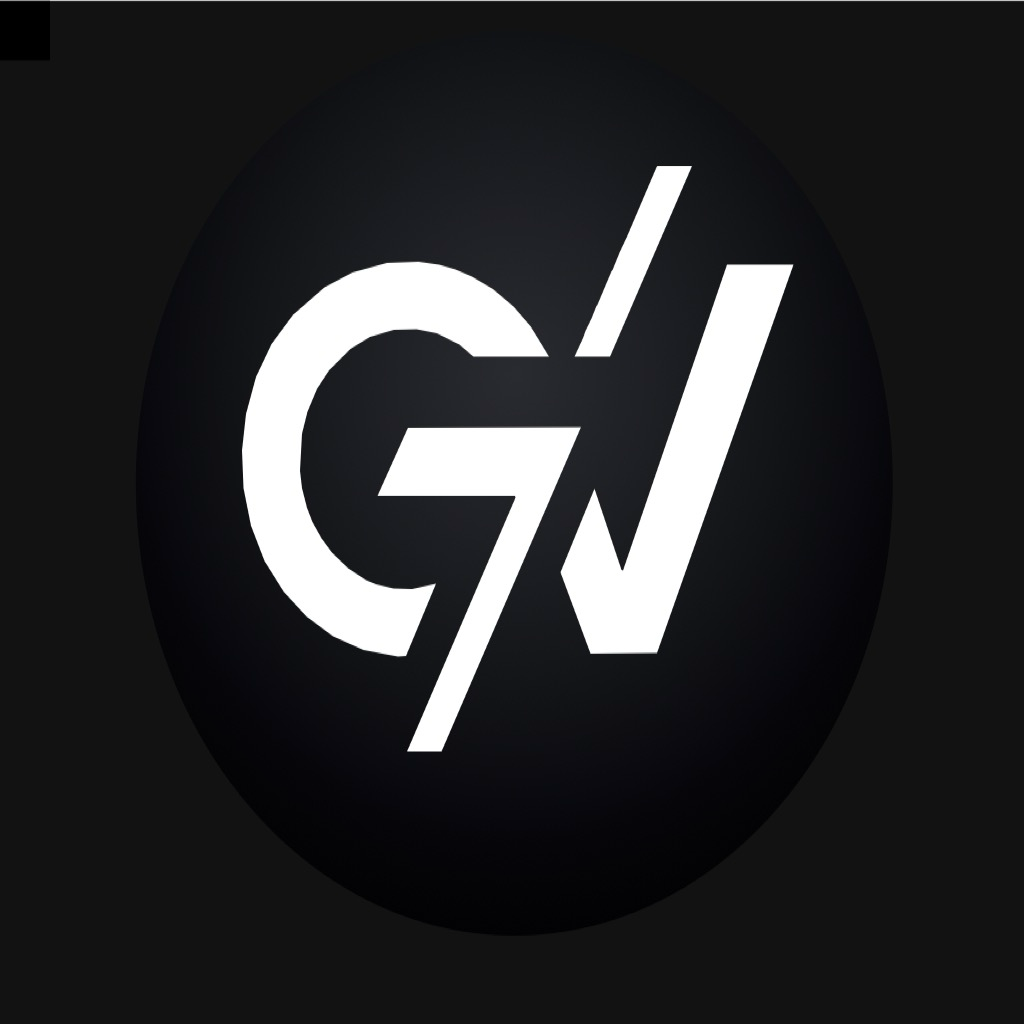
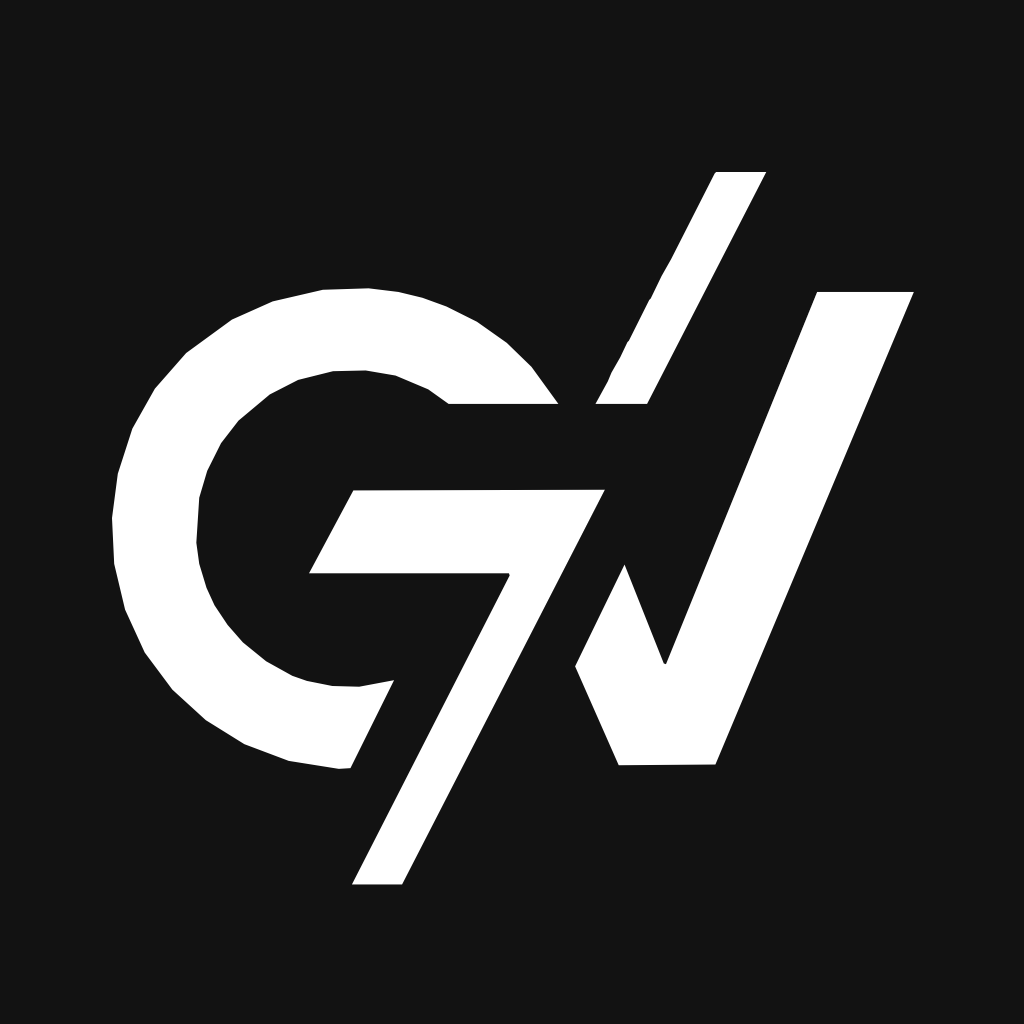
Minor UI revisions from TestFlight V1 feedback
- Remove circle background from GV logo, vector-only everywhere
- Tighten SVG viewBox to fit content, fixes vertical alignment
- Hamburger icon replaces GV logo on home feed team filter
- Scoreboard moved to first shelf below league tabs on Discover
- Send button, progress scroller, and play button changed to white
- Creator Hub header: more spacing above, description centered
- App icon: clean GV vector on flat dark background, no circle

Changed region(s): [[0.0938, 0.1562, 0.9062, 0.875]]

diff --git a/src/screens/BrowseScreen.tsx b/src/screens/BrowseScreen.tsx
@@ -14,7 +14,6 @@ import { useBrowseGameStories, GameStory } from '../hooks/queries/useBrowseGameS
 import { useBrowseRegionalShows } from '../hooks/queries/useBrowseRegionalShows';
 import { useUserTeams } from '../hooks/useUserTeams';
 import { ShowDiscoverySections } from '../components/ShowDiscoverySections';
-import { GameVoicesLogo } from '../components/GameVoicesLogo';
 
 // ─── Hooks ───────────────────────────────────────────────────────────────────
 
@@ -421,10 +420,7 @@ export default function BrowseScreen() {
     <View style={{ flex: 1, backgroundColor: '#121212' }}>
       {/* Header */}
       <View style={{ paddingTop: 60, paddingHorizontal: 16, paddingBottom: 12 }}>
-        <View style={{ flexDirection: 'row', alignItems: 'center', gap: 10, marginBottom: 16 }}>
-          <GameVoicesLogo size={32} />
-          <Text style={{ color: '#fff', fontSize: 28, fontWeight: 'bold' }}>Discover</Text>
-        </View>
+        <Text style={{ color: '#fff', fontSize: 28, fontWeight: 'bold', marginBottom: 16 }}>Discover</Text>
         <SearchBar />
       </View>
 
@@ -450,14 +446,7 @@ export default function BrowseScreen() {
         {selectedLeague === 'all' ? (
           // ── All tab ──────────────────────────────────────────────────────────
           <>
-            {/* For You — personalized shelves based on followed teams */}
-            <ShowDiscoverySections
-              userTeams={userTeams}
-              followedShowIds={followedShowIds}
-              onNavigate={(screen, params) => navigate(screen, params)}
-            />
-
-            {/* Recent Games — all sports mixed */}
+            {/* Recent Games — first shelf below league tabs */}
             {(loadingScoreboard || gameStories.length > 0) && (
               <SectionShelf title="Recent Games" loading={loadingScoreboard}>
                 {gameStories.map(story => (
@@ -465,6 +454,13 @@ export default function BrowseScreen() {
                 ))}
               </SectionShelf>
             )}
+
+            {/* For You — personalized shelves based on followed teams */}
+            <ShowDiscoverySections
+              userTeams={userTeams}
+              followedShowIds={followedShowIds}
+              onNavigate={(screen, params) => navigate(screen, params)}
+            />
 
             {/* Popular Shows — general/national content */}
             <SectionShelf

diff --git a/src/components/GameVoicesLogo.tsx b/src/components/GameVoicesLogo.tsx
@@ -1,28 +1,21 @@
 import React from 'react';
-import Svg, { Rect, Circle, Path, G, Defs, RadialGradient, Stop } from 'react-native-svg';
+import Svg, { Path, G } from 'react-native-svg';
 
 interface Props {
   /** Height in points — width scales proportionally (aspect ratio 2048:1713) */
   size?: number;
+  color?: string;
 }
 
-const ASPECT = 2048 / 1713;
+const ASPECT = 1103 / 980;
 
-export function GameVoicesLogo({ size = 80 }: Props) {
+export function GameVoicesLogo({ size = 80, color = '#ffffff' }: Props) {
   const width = size * ASPECT;
   const height = size;
 
   return (
-    <Svg width={width} height={height} viewBox="0 0 2048 1713">
-      <Defs>
-        <RadialGradient id="gvbg" cx="50%" cy="38%" r="62%">
-          <Stop offset="0%" stopColor="#2a2b30" />
-          <Stop offset="55%" stopColor="#141519" />
-          <Stop offset="100%" stopColor="#020204" />
-        </RadialGradient>
-      </Defs>
-      <Circle cx={1028.52} cy={808.06} r={757.04} fill="url(#gvbg)" />
-      <G fill="#ffffff" fillRule="evenodd">
+    <Svg width={width} height={height} viewBox="484 277 1103 980">
+      <G fill={color} fillRule="evenodd">
         <Path d="M 1162.0 714.0 L 816.0 715.0 L 755.0 829.0 L 1030.0 829.0 L 1031.0 832.0 L 814.0 1257.0 L 883.0 1257.0 Z" />
         <Path d="M 1587.0 442.0 L 1454.0 442.0 L 1246.0 954.0 L 1243.0 953.0 L 1189.0 817.0 L 1121.0 957.0 L 1181.0 1093.0 L 1314.0 1092.0 Z" />
         <Path d="M 837.0 437.0 L 774.0 439.0 L 705.0 455.0 L 649.0 480.0 L 586.0 526.0 L 543.0 575.0 L 512.0 630.0 L 492.0 692.0 L 484.0 753.0 L 487.0 816.0 L 502.0 879.0 L 529.0 938.0 L 567.0 989.0 L 613.0 1031.0 L 666.0 1064.0 L 727.0 1087.0 L 796.0 1098.0 L 812.0 1097.0 L 872.0 976.0 L 824.0 985.0 L 787.0 984.0 L 752.0 977.0 L 732.0 970.0 L 696.0 950.0 L 664.0 924.0 L 643.0 900.0 L 625.0 873.0 L 614.0 849.0 L 604.0 816.0 L 600.0 787.0 L 604.0 725.0 L 615.0 688.0 L 634.0 650.0 L 658.0 619.0 L 701.0 583.0 L 740.0 563.0 L 788.0 551.0 L 833.0 550.0 L 874.0 557.0 L 919.0 576.0 L 947.0 596.0 L 1098.0 596.0 L 1061.0 545.0 L 1027.0 512.0 L 986.0 483.0 L 944.0 462.0 L 911.0 450.0 L 878.0 442.0 Z" />

diff --git a/src/screens/NowPlayingScreen.tsx b/src/screens/NowPlayingScreen.tsx
@@ -428,13 +428,13 @@ export default function NowPlayingScreen() {
             >
               <View style={{
                 position: 'absolute', left: 0, top: 0, bottom: 0,
-                width: dotLeft, backgroundColor: accentColor, borderRadius: 2,
+                width: dotLeft, backgroundColor: '#fff', borderRadius: 2,
               }} />
               <View style={{
                 position: 'absolute', top: -5,
                 left: Math.max(0, dotLeft - 7),
                 width: 14, height: 14, borderRadius: 7,
-                backgroundColor: accentColor,
+                backgroundColor: '#fff',
               }} />
             </View>
             <View style={{ flexDirection: 'row', justifyContent: 'space-between' }}>
@@ -476,7 +476,7 @@ export default function NowPlayingScreen() {
               }}
               style={{
                 width: 52, height: 52, borderRadius: 26,
-                backgroundColor: accentColor,
+                backgroundColor: '#fff',
                 alignItems: 'center', justifyContent: 'center',
               }}
             >
@@ -608,11 +608,11 @@ export default function NowPlayingScreen() {
             disabled={!commentText.trim() || addComment.isPending}
             style={{
               width: 32, height: 32, borderRadius: 16,
-              backgroundColor: commentText.trim() ? accentColor : '#2A2A2A',
+              backgroundColor: commentText.trim() ? '#fff' : '#2A2A2A',
               alignItems: 'center', justifyContent: 'center',
             }}
           >
-            <Ionicons name="arrow-forward" size={16} color="#fff" />
+            <Ionicons name="arrow-forward" size={16} color={commentText.trim() ? '#000' : '#fff'} />
           </TouchableOpacity>
         </View>
       </KeyboardAvoidingView>

diff --git a/src/screens/HomeScreen.tsx b/src/screens/HomeScreen.tsx
@@ -21,7 +21,6 @@ import { useMarkNotificationsRead } from '../hooks/mutations/useMarkNotification
 import { useListenHistory } from '../hooks/queries/useListenHistory';
 import { useFollowedShows } from '../hooks/queries/useUserLibrary';
 import { useMyClaims } from '../hooks/mutations/usePodcastClaim';
-import { GameVoicesLogo } from '../components/GameVoicesLogo';
 
 // ─── Notifications Sheet ──────────────────────────────────────────────────────
 
@@ -417,9 +416,9 @@ export default function HomeScreen({ onNavigate }: {
       }}>
         <TouchableOpacity
           onPress={() => setTeamPickerOpen(true)}
-          style={{ alignItems: 'center', justifyContent: 'center' }}
+          style={{ alignItems: 'center', justifyContent: 'center', padding: 4 }}
         >
-          <GameVoicesLogo size={42} />
+          <Ionicons name="menu" size={28} color="#fff" />
         </TouchableOpacity>
 
         <ScrollView horizontal showsHorizontalScrollIndicator={false} contentContainerStyle={{ gap: 10 }}>

diff --git a/src/screens/PodcastClaimScreen.tsx b/src/screens/PodcastClaimScreen.tsx
@@ -319,12 +319,12 @@ export default function PodcastClaimScreen() {
   return (
     <View style={{ flex: 1, backgroundColor: '#121212' }}>
       {/* Header */}
-      <View style={{ paddingTop: 56, paddingBottom: 16, paddingHorizontal: 16, borderBottomWidth: 1, borderBottomColor: '#1A1A1A' }}>
-        <View style={{ flexDirection: 'row', alignItems: 'center', gap: 10, marginBottom: 6 }}>
+      <View style={{ paddingTop: 72, paddingBottom: 20, paddingHorizontal: 16, borderBottomWidth: 1, borderBottomColor: '#1A1A1A', alignItems: 'center' }}>
+        <View style={{ flexDirection: 'row', alignItems: 'center', gap: 10, marginBottom: 8 }}>
           <GameVoicesLogo size={32} />
           <Text style={{ color: '#fff', fontSize: 26, fontWeight: '800' }}>Creator Hub</Text>
         </View>
-        <Text style={{ color: '#666', fontSize: 14, lineHeight: 20 }}>
+        <Text style={{ color: '#666', fontSize: 14, lineHeight: 20, textAlign: 'center' }}>
           Are you a podcast creator? Search for your show and claim it today to unlock analytics, a verified badge, and more.
         </Text>
       </View>
